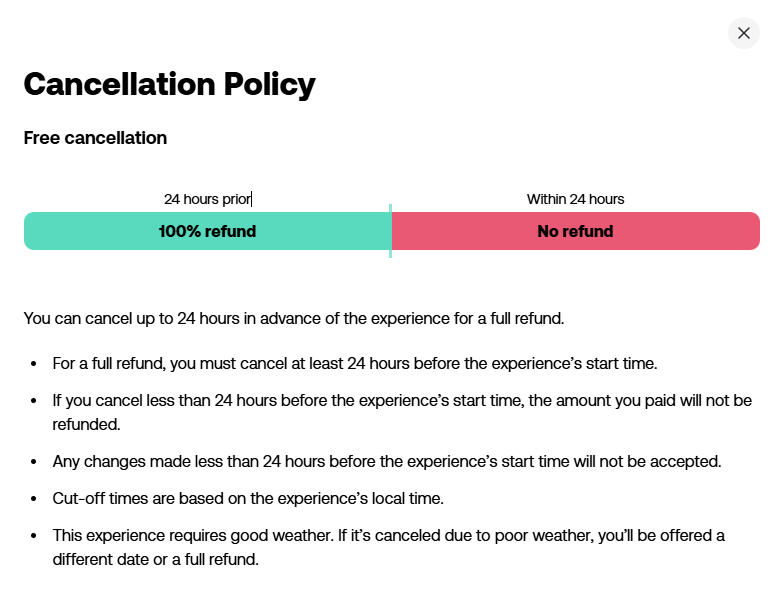
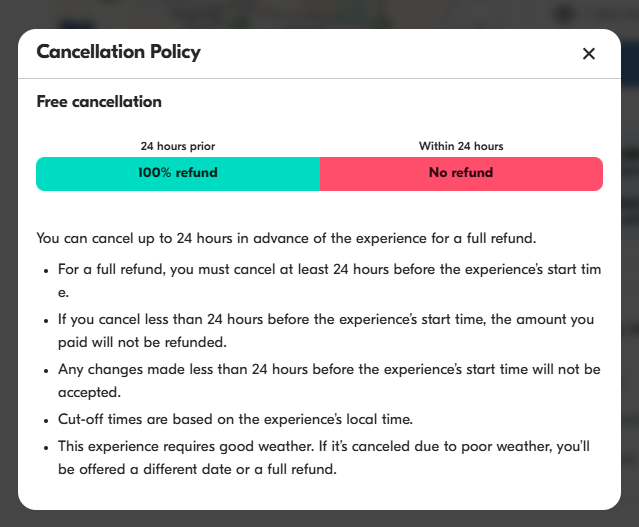
fix(frontend): tweak style and images for detail popups

diff --git a/public/frontend/assets/css/style.css b/public/frontend/assets/css/style.css
@@ -7390,7 +7390,7 @@ ul.show-in-desktop {
     --detail-popup-trigger-box-text-color: #000000;
     --detail-popup-trigger-box-icon-color: #1c4d99;
     background: var(--detail-popup-trigger-box-background-color);
-    padding: 0.85rem 1rem;
+    padding: 0.99rem 1rem;
     border-radius: 0.35rem;
     margin-top: 1.5rem;
 }
@@ -7400,14 +7400,14 @@ ul.show-in-desktop {
 }
 .detail-popups-item__icon i {
     color: var(--detail-popup-trigger-box-icon-color);
-    font-size: 1.05rem;
+    font-size: 1.09rem;
 }
 .detail-popups-item__info {
-    line-height: 1.25;
+    line-height: 1.4;
     color: var(--detail-popup-trigger-box-text-color);
 }
 .detail-popups-item__info span {
-    font-size: 0.93rem;
+    font-size: 0.95rem;
 }
 .detail-popups-item__info .trigger-text {
     cursor: pointer;
@@ -7419,7 +7419,7 @@ ul.show-in-desktop {
     padding-left: 0.25rem;
 }
 .detail-popups-item:not(:last-child) {
-    margin-bottom: 0.85rem;
+    margin-bottom: 0.9rem;
 }
 .refund-policy {
     width: 100%;
